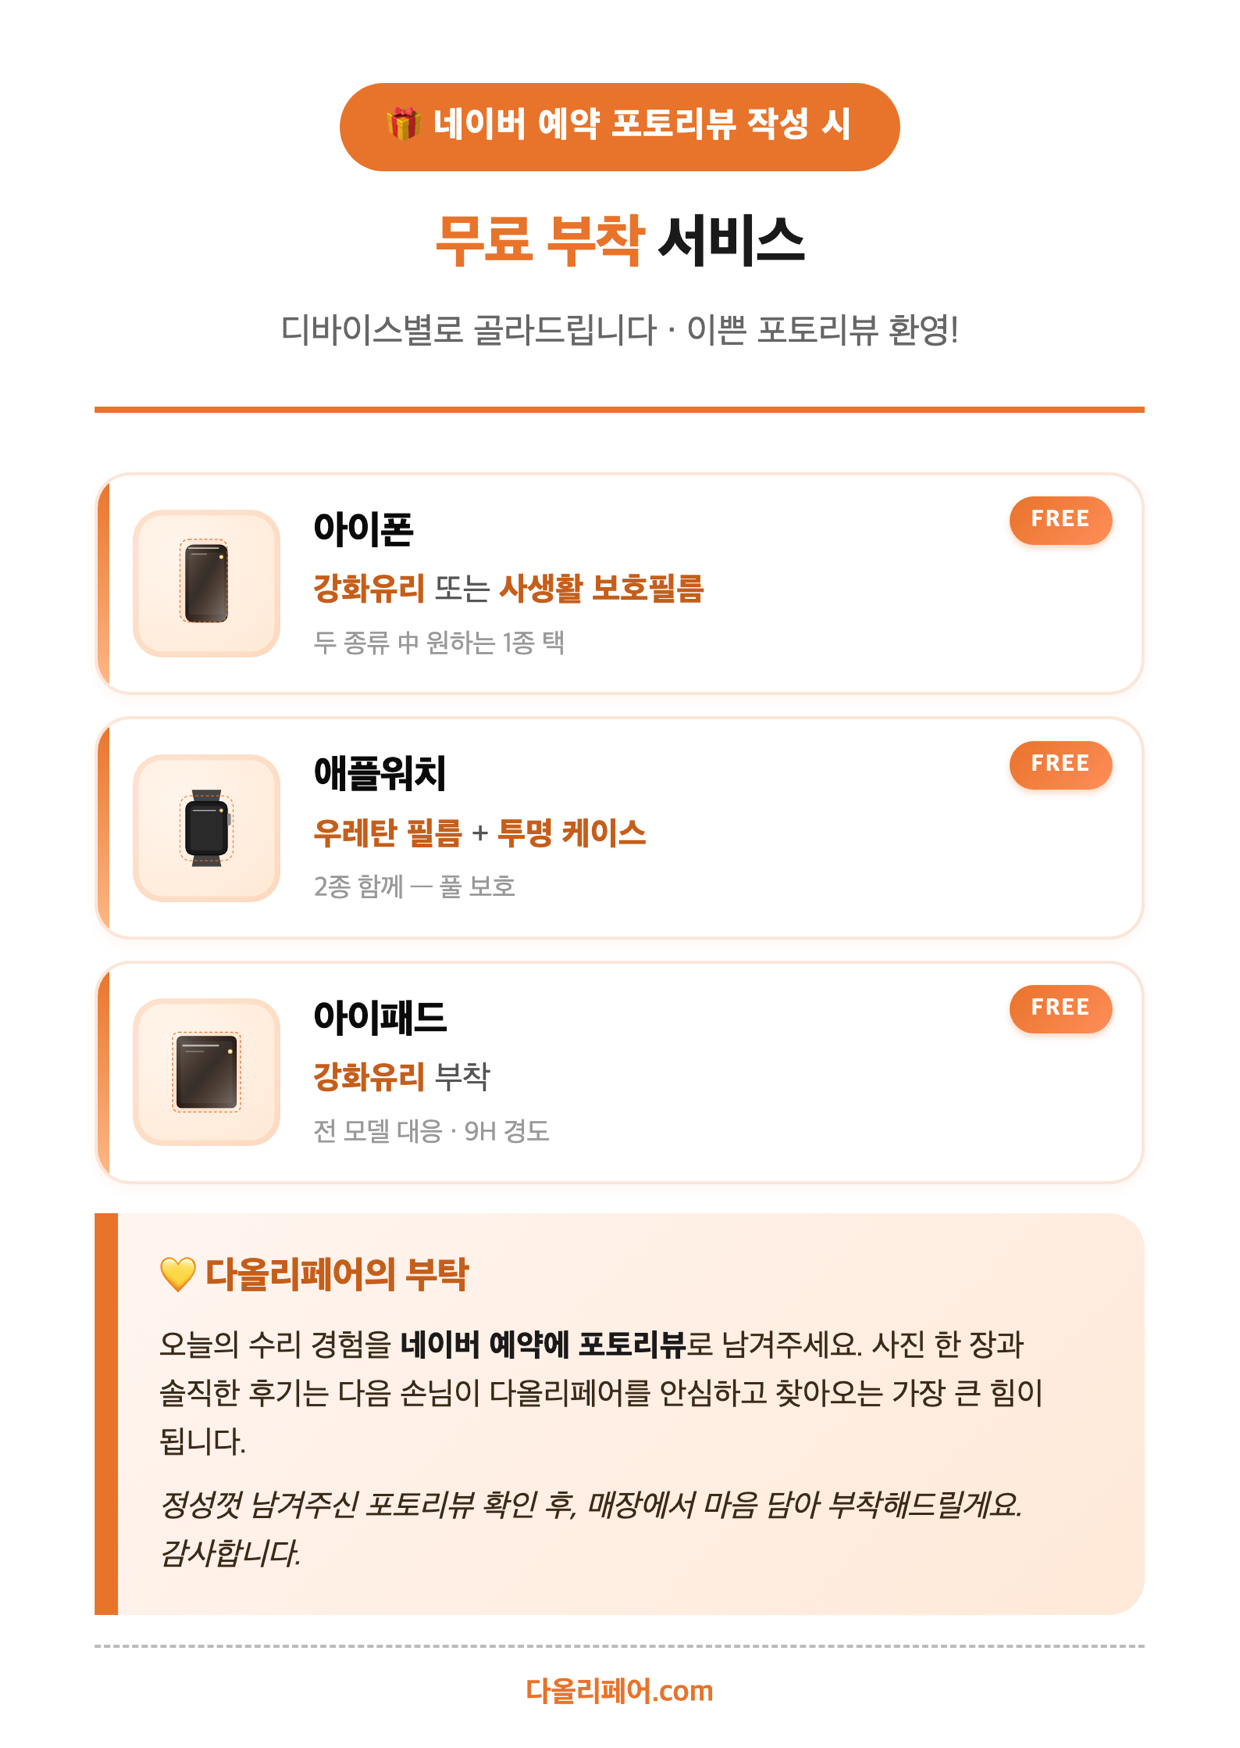
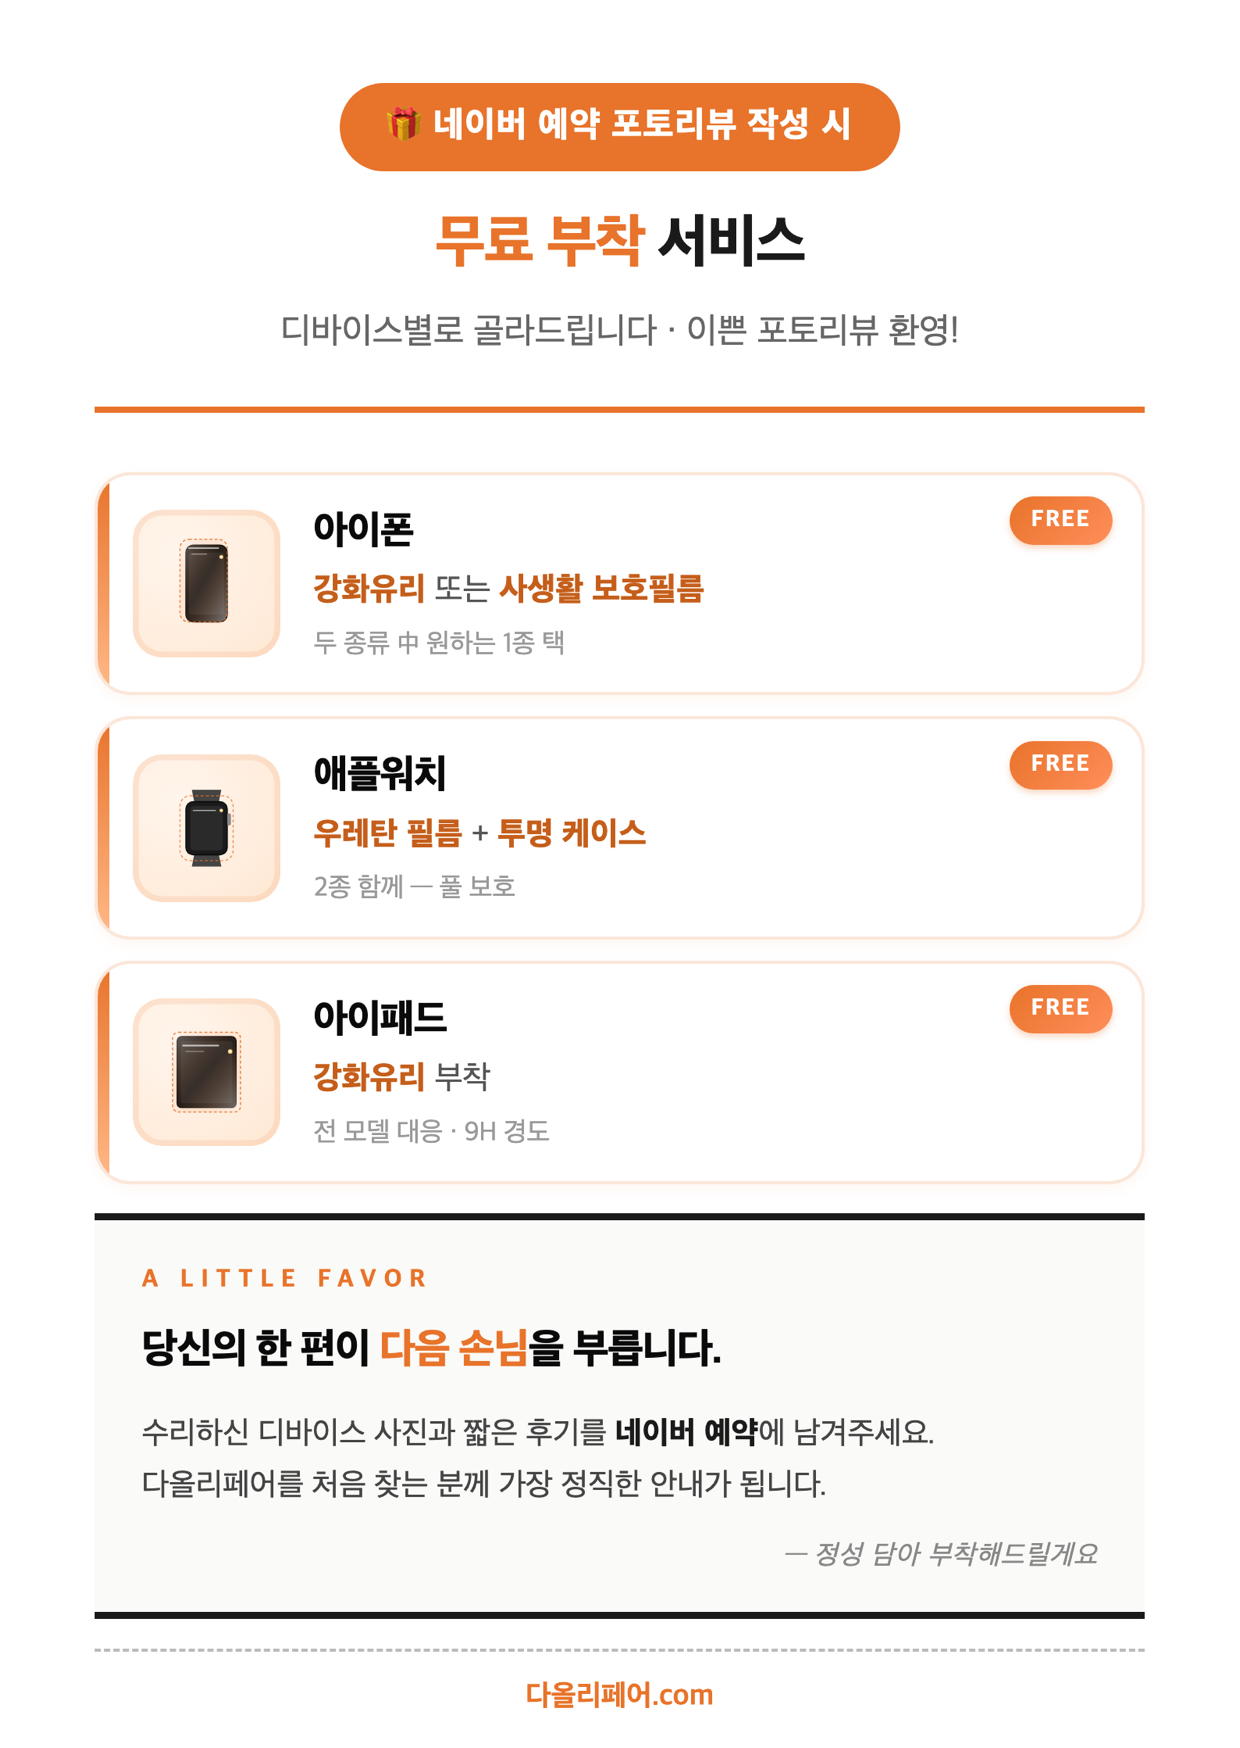
리뷰 안내문 footer 박스 미니멀 리디자인 — '다올리페어의 부탁' → 'A LITTLE FAVOR' 캡션 + 헤드라인 + 본문 + 서명 (위/아래 검정 라인 + 베이지 배경)

Changed region(s): [[0.0613, 0.6796, 0.95, 0.9268], [0.429, 0.9577, 0.5823, 0.9886]]

diff --git a/articles/notice-review-gift-print.html b/articles/notice-review-gift-print.html
@@ -165,31 +165,48 @@
     .a6-gift-value s { color: #c5a890; }
 
     .a6-howto {
-      background: linear-gradient(135deg, #fff5f0 0%, #ffe9d8 100%);
-      border-left: 2mm solid #E8732A;
-      padding: 3mm 3.5mm;
-      border-radius: 0 3mm 3mm 0;
+      position: relative;
+      background: #fafaf7;
+      border-top: 0.6mm solid #1a1a1a;
+      border-bottom: 0.6mm solid #1a1a1a;
+      padding: 3.5mm 4mm 3mm;
       margin-bottom: auto;
     }
-    .a6-howto-title {
-      font-size: 9pt;
+    .a6-howto-eyebrow {
+      font-size: 6pt;
       font-weight: 900;
-      color: #C55E1A;
-      margin-bottom: 1.5mm;
-      letter-spacing: -0.2px;
+      color: #E8732A;
+      letter-spacing: 2.5px;
+      text-transform: uppercase;
+      margin-bottom: 2mm;
+    }
+    .a6-howto-headline {
+      font-size: 10pt;
+      font-weight: 900;
+      color: #0A0A0A;
+      line-height: 1.35;
+      letter-spacing: -0.4px;
+      margin-bottom: 2.5mm;
+    }
+    .a6-howto-headline em {
+      color: #E8732A;
+      font-style: normal;
     }
     .a6-howto p {
       font-size: 7.5pt;
-      color: #3a2a18;
-      line-height: 1.55;
+      color: #444;
+      line-height: 1.65;
       word-break: keep-all;
-      margin-bottom: 1.2mm;
+      margin-bottom: 1.5mm;
     }
     .a6-howto p:last-child { margin-bottom: 0; }
     .a6-howto strong { color: #1a1a1a; font-weight: 800; }
-    .a6-howto-thanks {
-      font-size: 7.5pt;
-      color: #8a5a2a;
+    .a6-howto-sign {
+      margin-top: 2mm;
+      font-size: 6.5pt;
+      color: #888;
+      letter-spacing: 0.3px;
+      text-align: right;
       font-style: italic;
     }
 
@@ -325,9 +342,10 @@
     </div>
 
     <div class="a6-howto">
-      <div class="a6-howto-title">💛 다올리페어의 부탁</div>
-      <p>오늘의 수리 경험을 <strong>네이버 예약에 포토리뷰</strong>로 남겨주세요. 사진 한 장과 솔직한 후기는 다음 손님이 다올리페어를 안심하고 찾아오는 가장 큰 힘이 됩니다.</p>
-      <p class="a6-howto-thanks">정성껏 남겨주신 포토리뷰 확인 후, 매장에서 마음 담아 부착해드릴게요. 감사합니다.</p>
+      <div class="a6-howto-eyebrow">A LITTLE FAVOR</div>
+      <div class="a6-howto-headline">당신의 한 편이 <em>다음 손님</em>을 부릅니다.</div>
+      <p>수리하신 디바이스 사진과 짧은 후기를 <strong>네이버 예약</strong>에 남겨주세요. 다올리페어를 처음 찾는 분께 가장 정직한 안내가 됩니다.</p>
+      <div class="a6-howto-sign">— 정성 담아 부착해드릴게요</div>
     </div>
 
     <div class="a6-footer">

diff --git a/dist/articles/notice-review-gift-print.html b/dist/articles/notice-review-gift-print.html
@@ -165,31 +165,48 @@
     .a6-gift-value s { color: #c5a890; }
 
     .a6-howto {
-      background: linear-gradient(135deg, #fff5f0 0%, #ffe9d8 100%);
-      border-left: 2mm solid #E8732A;
-      padding: 3mm 3.5mm;
-      border-radius: 0 3mm 3mm 0;
+      position: relative;
+      background: #fafaf7;
+      border-top: 0.6mm solid #1a1a1a;
+      border-bottom: 0.6mm solid #1a1a1a;
+      padding: 3.5mm 4mm 3mm;
       margin-bottom: auto;
     }
-    .a6-howto-title {
-      font-size: 9pt;
+    .a6-howto-eyebrow {
+      font-size: 6pt;
       font-weight: 900;
-      color: #C55E1A;
-      margin-bottom: 1.5mm;
-      letter-spacing: -0.2px;
+      color: #E8732A;
+      letter-spacing: 2.5px;
+      text-transform: uppercase;
+      margin-bottom: 2mm;
+    }
+    .a6-howto-headline {
+      font-size: 10pt;
+      font-weight: 900;
+      color: #0A0A0A;
+      line-height: 1.35;
+      letter-spacing: -0.4px;
+      margin-bottom: 2.5mm;
+    }
+    .a6-howto-headline em {
+      color: #E8732A;
+      font-style: normal;
     }
     .a6-howto p {
       font-size: 7.5pt;
-      color: #3a2a18;
-      line-height: 1.55;
+      color: #444;
+      line-height: 1.65;
       word-break: keep-all;
-      margin-bottom: 1.2mm;
+      margin-bottom: 1.5mm;
     }
     .a6-howto p:last-child { margin-bottom: 0; }
     .a6-howto strong { color: #1a1a1a; font-weight: 800; }
-    .a6-howto-thanks {
-      font-size: 7.5pt;
-      color: #8a5a2a;
+    .a6-howto-sign {
+      margin-top: 2mm;
+      font-size: 6.5pt;
+      color: #888;
+      letter-spacing: 0.3px;
+      text-align: right;
       font-style: italic;
     }
 
@@ -325,9 +342,10 @@
     </div>
 
     <div class="a6-howto">
-      <div class="a6-howto-title">💛 다올리페어의 부탁</div>
-      <p>오늘의 수리 경험을 <strong>네이버 예약에 포토리뷰</strong>로 남겨주세요. 사진 한 장과 솔직한 후기는 다음 손님이 다올리페어를 안심하고 찾아오는 가장 큰 힘이 됩니다.</p>
-      <p class="a6-howto-thanks">정성껏 남겨주신 포토리뷰 확인 후, 매장에서 마음 담아 부착해드릴게요. 감사합니다.</p>
+      <div class="a6-howto-eyebrow">A LITTLE FAVOR</div>
+      <div class="a6-howto-headline">당신의 한 편이 <em>다음 손님</em>을 부릅니다.</div>
+      <p>수리하신 디바이스 사진과 짧은 후기를 <strong>네이버 예약</strong>에 남겨주세요. 다올리페어를 처음 찾는 분께 가장 정직한 안내가 됩니다.</p>
+      <div class="a6-howto-sign">— 정성 담아 부착해드릴게요</div>
     </div>
 
     <div class="a6-footer">
